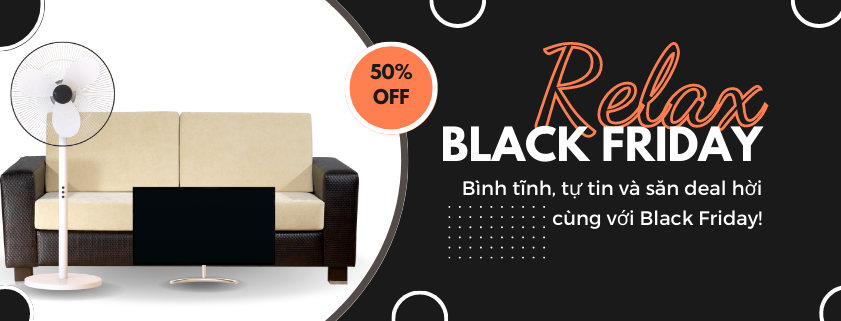
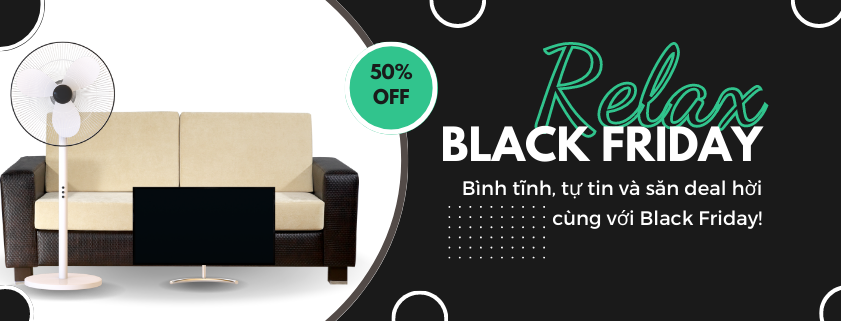
đổi màu giao diện khách

Changed region(s): [[0.6183, 0.1246, 0.9275, 0.4361], [0.4019, 0.1246, 0.5256, 0.405]]

diff --git a/public/frontend/css/style.css b/public/frontend/css/style.css
@@ -58,7 +58,7 @@ button:hover {
 hr{
     width: 30px;
     height: 2px;
-    background-color: #ff7f50;
+    background-color: #014737;
 }
 .center{
 	text-align: center;
@@ -95,7 +95,7 @@ hr{
 .navbar i:hover,
 .navbar i.active,
 .navbar-light .navbar-nav .nav-link.active{
-    color:  #ff7f50;
+    color:  #31c48d; /*ff7f50*/
 }
 .navbar i{
     font-size:  1.2rem;
@@ -123,7 +123,7 @@ hr{
 @media only screen and (max-width:991px){
     body > nav > div > button:hover,
     body > nav > div > button:focus{
-        background-color: coral;
+        background-color: #31c48d; /*coral*/
         
     }
     body > nav > div > button:hover #bar,
@@ -174,7 +174,7 @@ hr{
     
 }
 #home span{
-    color: coral;
+    color: #31c48d;
 }
 #new .one img{
     width: 100%;
@@ -247,7 +247,7 @@ hr{
     opacity: 0.7;
 }
 .product .buy-btn{
-    background: coral;
+    background: #31c48d;
     transform: translateY(20px);
     opacity: 0;
     transition: 0.3s all;
@@ -322,7 +322,7 @@ footer .copyright a{
 }
 footer .copyright a:hover{
     color: #fff;
-    background-color: #fb774f;
+    background-color: #0e9f6e;
     
 }
 li a{
@@ -347,7 +347,7 @@ li a{
 }
 
 #cart-container table thead td{
-    background: #fd8c66;
+    background: #0e9f6e; /*fd8c66*/
     color: #fff;
     border: none;
     padding: 6px 0;
@@ -393,7 +393,7 @@ li a{
 
 #cart-bottom .coupon h5,
 #cart-bottom .total h5 {
-    background: #fd8c66;
+    background: #0e9f6e;
     color: #fff;
     border: none;
     padding: 6px 12px;
@@ -447,7 +447,7 @@ li a{
 
 .shop-list:hover{
     font-weight: bold;
-    color: coral;
+    color: #31c48d;
 }
 
 .shop-nav{
@@ -458,7 +458,7 @@ li a{
 
 .shop-nav:hover{
     font-weight: bold;
-    color: coral;
+    color: #31c48d;
 }
 
 /*product*/
@@ -467,7 +467,7 @@ li a{
 }
 
 .dropdown-item:hover{
-    background-color: #fb774f;
+    background-color: #31c48d;
     font-weight: bold;
 }
 
@@ -497,7 +497,7 @@ li a{
   }
   
   .login-form form button, .signup-form form button {
-    background: coral;
+    background: #31c48d;
     border: medium none;
     border-radius: 0;
     color: #FFFFFF;
@@ -519,7 +519,7 @@ li a{
   
   
   .or{
-      background: coral;
+      background: #31c48d;
       border-radius: 40px;
       color: #FFFFFF;
       font-size: 16px;

diff --git a/app/Http/Controllers/OrderController.php b/app/Http/Controllers/OrderController.php
@@ -166,56 +166,6 @@ class OrderController extends Controller
         ->join('noi_that','noi_that.NT_MA','=','chi_tiet_don_dat_hang.NT_MA')
         ->where('chi_tiet_don_dat_hang.DDH_MA', $DDH_MA)->get();
 
-        /*echo '<pre>';
-            print_r ($all_DDH);
-        echo '</pre>';
-
-
-		<p>Đơn hàng đặt</p>
-			<table class="table-styling">
-				<thead>
-					<tr>
-						<th>Tên sản phẩm</th>
-						<th>Mã giảm giá</th>
-						<th>Phí ship</th>
-						<th>Số lượng</th>
-						<th>Giá sản phẩm</th>
-						<th>Thành tiền</th>
-					</tr>
-				</thead>
-				<tbody>';
-			
-				$total = 0;
-
-				foreach($order_details_product as $key => $product){
-
-					$subtotal = $product->product_price*$product->product_sales_quantity;
-					$total+=$subtotal;
-
-					if($product->product_coupon!='no'){
-						$product_coupon = $product->product_coupon;
-					}else{
-						$product_coupon = 'không mã';
-					}		
-
-		$output.='		
-					<tr>
-						<td>'.$product->product_name.'</td>
-						<td>'.$product_coupon.'</td>
-						<td>'.number_format($product->product_feeship,0,',','.').'đ'.'</td>
-						<td>'.$product->product_sales_quantity.'</td>
-						<td>'.number_format($product->product_price,0,',','.').'đ'.'</td>
-						<td>'.number_format($subtotal,0,',','.').'đ'.'</td>
-						
-					</tr>';
-				}
-
-				if($coupon_condition==1){
-					$total_after_coupon = ($total*$coupon_number)/100;
-	                $total_coupon = $total - $total_after_coupon;
-				}else{
-                  	$total_coupon = $total - $coupon_number;
-*/
 		$output = '';
 
         $output .= '<!DOCTYPE>
